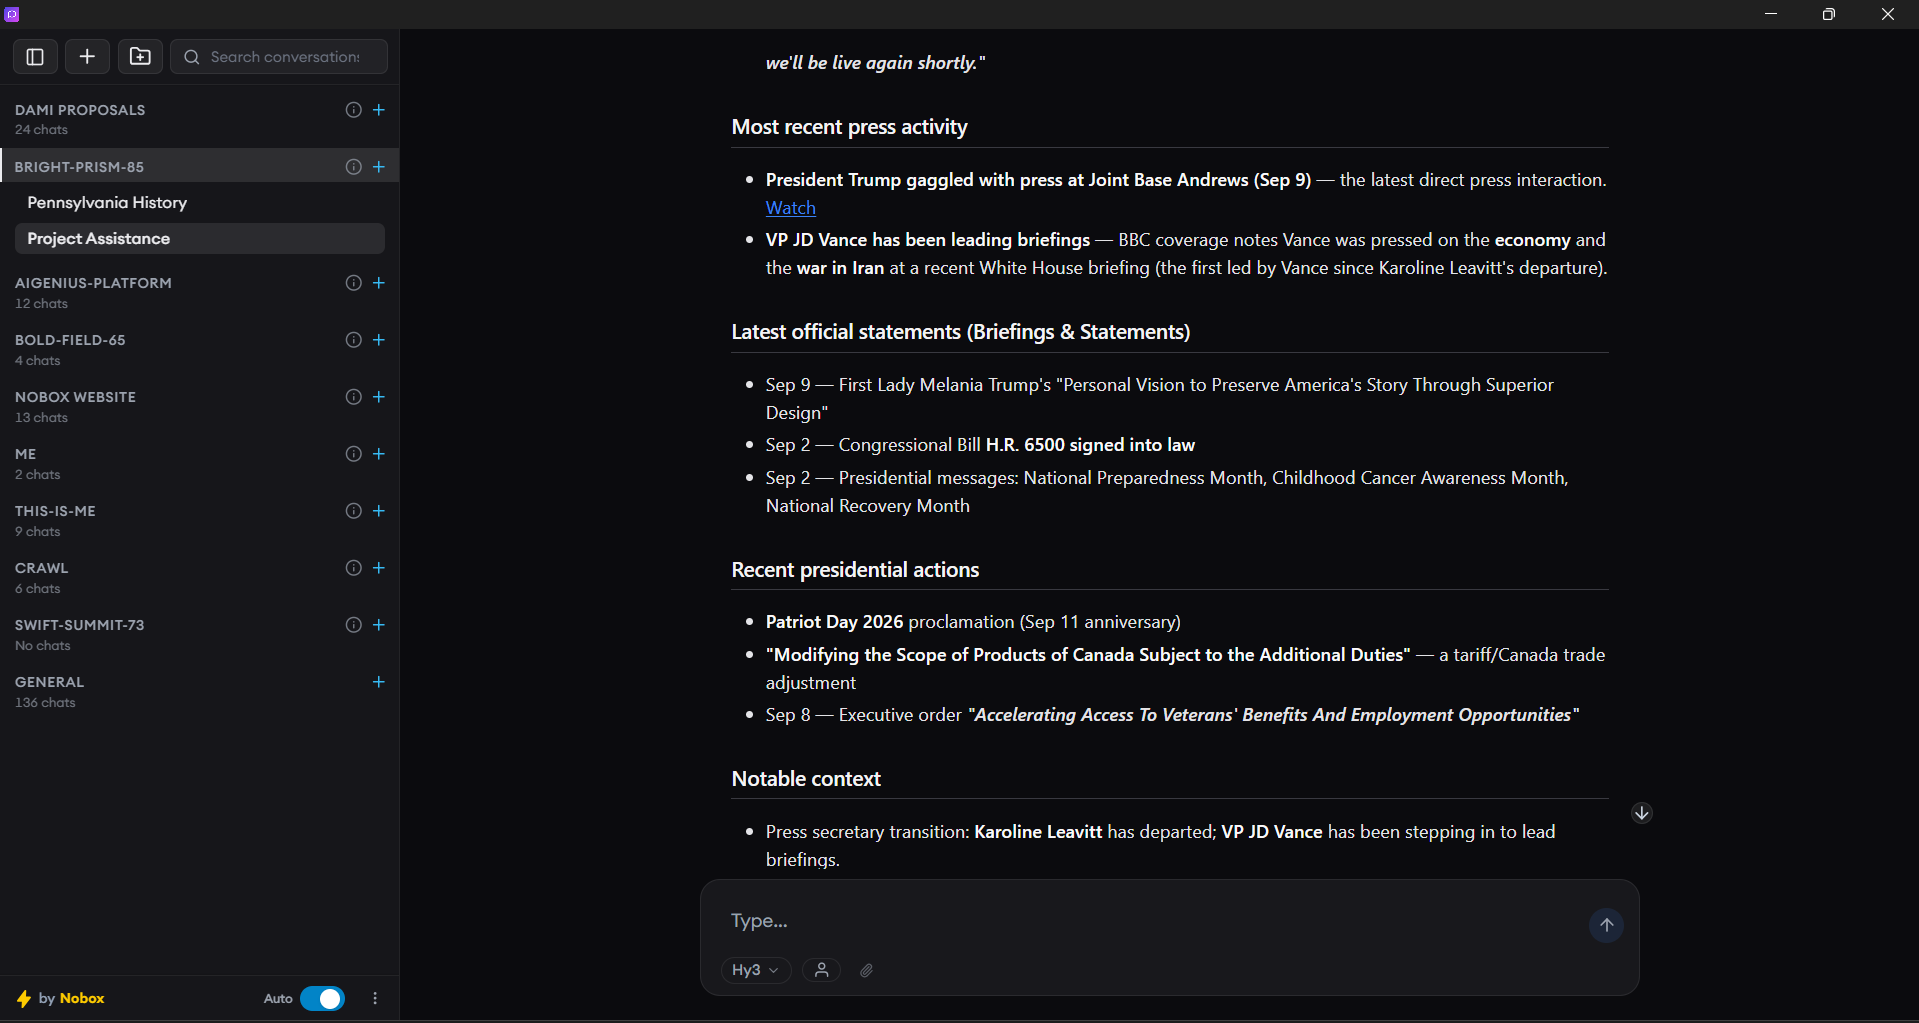
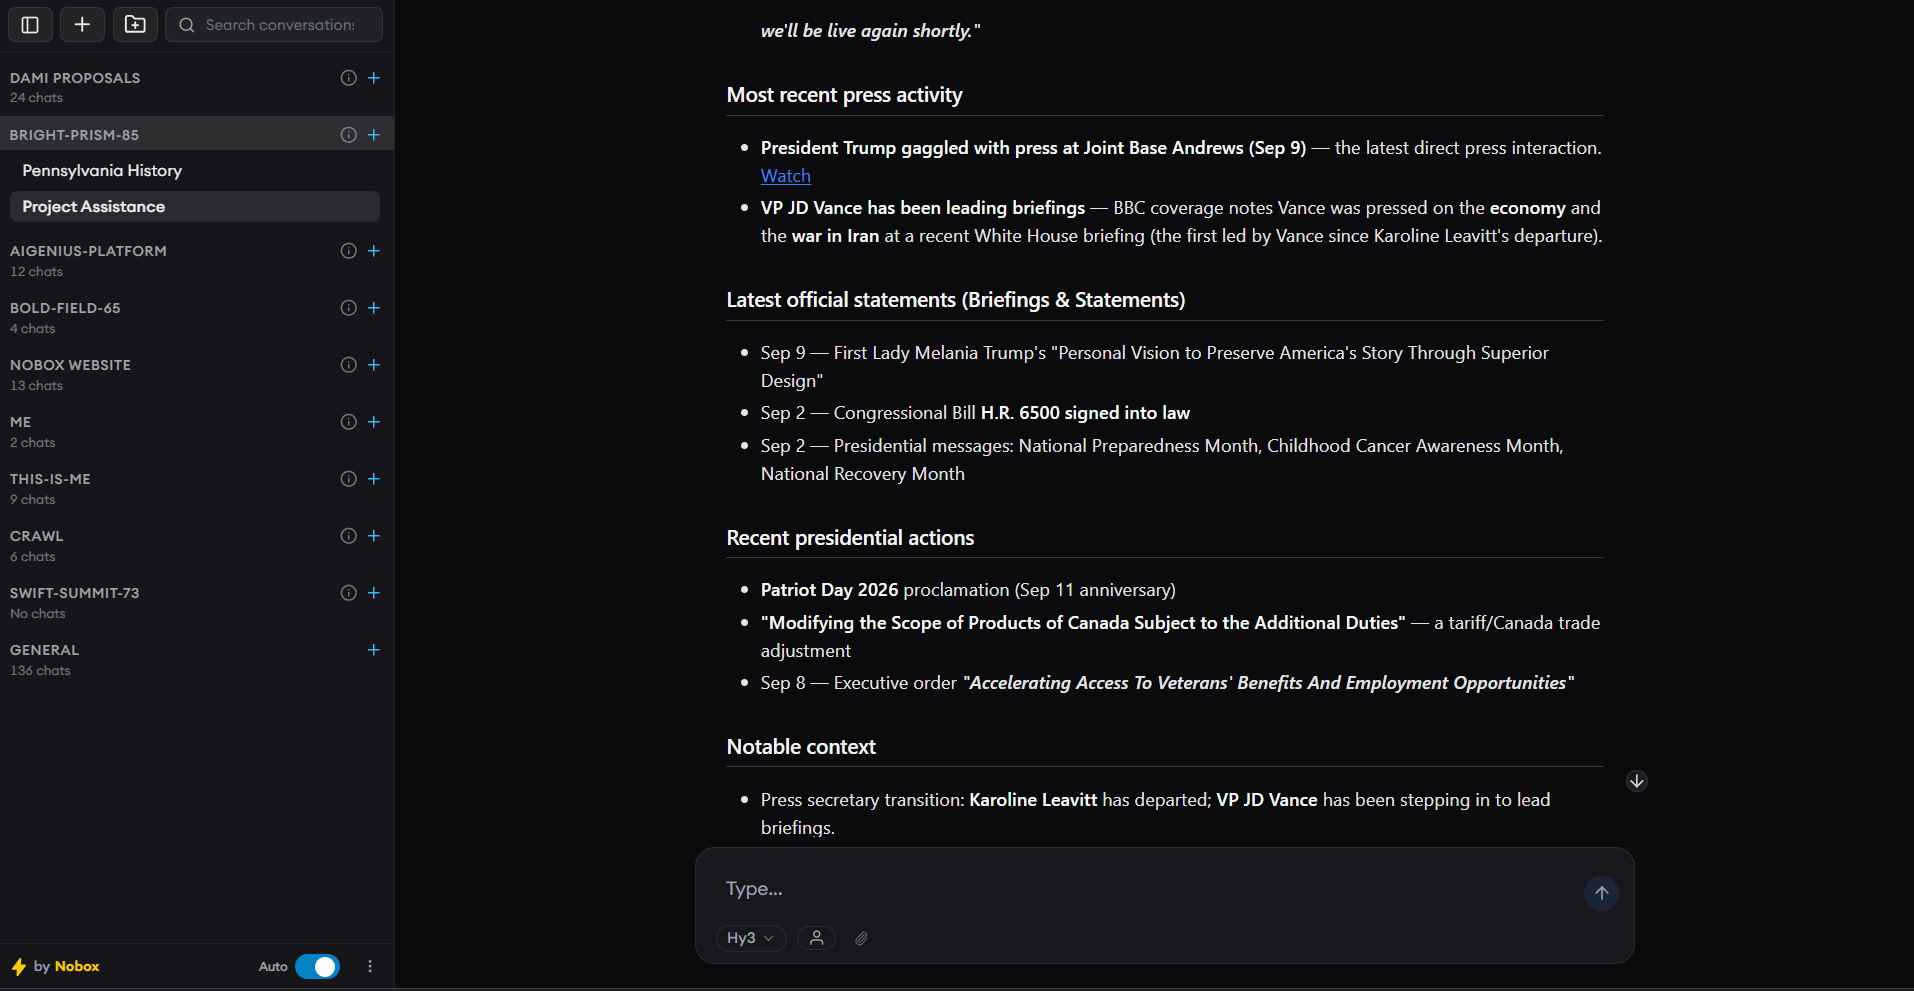
feat: update home page mockup styles and enhance screenshot presentation

diff --git a/frontend/src/app/components/home.css b/frontend/src/app/components/home.css
@@ -39,7 +39,7 @@
   display: flex;
   align-items: center;
   justify-content: space-between;
-  padding: 1.25rem 2rem;
+  padding: 1.5rem 2.25rem;
 }
 
 .home-root .nav-logo {
@@ -325,66 +325,85 @@
 .home-root .mockup-wrap {
   position: absolute;
   right: -3%;
-  top: -2%;
+  top: 0;
   bottom: -5%;
   width: 64%;
   display: flex;
   align-items: flex-start;
   justify-content: flex-start;
   pointer-events: none;
+  overflow: hidden;
+  padding-left: 2px;
+  /* Ambient glow behind screenshot */
+  isolation: isolate;
+}
+
+/* Glowing halo behind the screenshot */
+.home-root .mockup-wrap::before {
+  content: "";
+  position: absolute;
+  inset: -10% -10% auto;
+  height: 60%;
+  background: radial-gradient(
+    ellipse 70% 50% at 55% 20%,
+    rgba(34, 211, 238, 0.18) 0%,
+    rgba(124, 58, 237, 0.12) 45%,
+    transparent 75%
+  );
+  pointer-events: none;
+  z-index: -1;
+  filter: blur(20px);
 }
 
 .home-root .window {
   width: 100%;
   height: 100%;
-  background: #1a1916;
-  border-radius: 14px 14px 0 0;
+  background: #111113;
+  border-radius: 12px 12px 0 0;
   overflow: hidden;
+  /* Shadow only — no border ring */
   box-shadow:
-    0 0 0 1px rgba(255, 255, 255, 0.07),
-    0 60px 120px rgba(0, 0, 0, 0.7),
-    0 20px 40px rgba(0, 0, 0, 0.4);
+    8px 40px 100px rgba(0, 0, 0, 0.7),
+    4px 12px 32px rgba(0, 0, 0, 0.4);
+  /* 3D perspective tilt like Linear */
+  transform: perspective(1400px) rotateX(3deg);
+  transform-origin: top center;
 }
 
-/* macOS window bar */
 .home-root .window-bar {
   height: 38px;
-  background: #252420;
+  background: #1a1a1c;
   border-bottom: 1px solid rgba(255, 255, 255, 0.06);
   display: flex;
   align-items: center;
   padding: 0 14px;
-  gap: 8px;
+  gap: 7px;
   flex-shrink: 0;
 }
 
 .home-root .traffic-dot {
-  width: 12px;
-  height: 12px;
+  width: 10px;
+  height: 10px;
   border-radius: 50%;
   flex-shrink: 0;
+  /* Monochrome — no colors, like Cursor */
+  background: #3a3a3d;
 }
 
-.home-root .td-red {
-  background: #ff5f57;
-}
-
-.home-root .td-yellow {
-  background: #febc2e;
-}
-
+.home-root .td-red,
+.home-root .td-yellow,
 .home-root .td-green {
-  background: #28c840;
+  background: #3a3a3d;
 }
 
 .home-root .window-title {
   flex: 1;
   text-align: center;
-  font-size: 0.75rem;
-  color: #52525b;
+  font-size: 0.7rem;
+  color: #4a4a50;
   font-weight: 500;
   letter-spacing: 0.01em;
-  margin-right: 36px;
+  margin-right: 37px; /* offset for the 3 dots width so text is truly centered */
 }
 
 .home-root .window-body {
@@ -402,12 +421,12 @@
   display: block;
 }
 
-/* Fade bottom of window into page */
+/* Fade bottom of window into page background */
 .home-root .window-body::after {
   content: "";
   position: absolute;
   inset: 0;
-  background: linear-gradient(to bottom, transparent 55%, #0e0d0c 100%);
+  background: linear-gradient(to bottom, transparent 50%, #0b0b0d 100%);
   pointer-events: none;
 }
 
@@ -528,7 +547,11 @@ html:not(.dark):not([data-theme="dark"]) .home-root .headline {
 html[data-theme="light"] .home-root .window,
 html:not(.dark):not([data-theme="dark"]) .home-root .window {
   background: #f0efeb;
-  box-shadow: 0 0 0 1px rgba(0, 0, 0, 0.08), 0 60px 120px rgba(0, 0, 0, 0.18), 0 20px 40px rgba(0, 0, 0, 0.1);
+  box-shadow:
+    0 0 0 1px rgba(0, 0, 0, 0.12),
+    0 0 0 4px rgba(0, 0, 0, 0.04),
+    8px 40px 100px rgba(0, 0, 0, 0.18),
+    4px 12px 32px rgba(0, 0, 0, 0.1);
 }
 
 html[data-theme="light"] .home-root .window-bar,
@@ -539,7 +562,17 @@ html:not(.dark):not([data-theme="dark"]) .home-root .window-bar {
 
 html[data-theme="light"] .home-root .window-body::after,
 html:not(.dark):not([data-theme="dark"]) .home-root .window-body::after {
-  background: linear-gradient(to bottom, transparent 55%, #f7f6f2 100%);
+  background: linear-gradient(to bottom, transparent 50%, #f7f6f2 100%);
+}
+
+html[data-theme="light"] .home-root .mockup-wrap::before,
+html:not(.dark):not([data-theme="dark"]) .home-root .mockup-wrap::before {
+  background: radial-gradient(
+    ellipse 70% 50% at 55% 20%,
+    rgba(8, 145, 178, 0.12) 0%,
+    rgba(124, 58, 237, 0.08) 45%,
+    transparent 75%
+  );
 }
 
 html[data-theme="light"] .home-root .footer,

diff --git a/frontend/src/app/components/HomePage.tsx b/frontend/src/app/components/HomePage.tsx
@@ -425,7 +425,7 @@ export default function HomePage() {
             </div>
           </div>
 
-          {/* Right: macOS window mockup */}
+          {/* Right: screenshot mockup with macOS window chrome */}
           <div className="mockup-wrap" aria-hidden={true}>
             <div className="window">
               <div className="window-bar">
